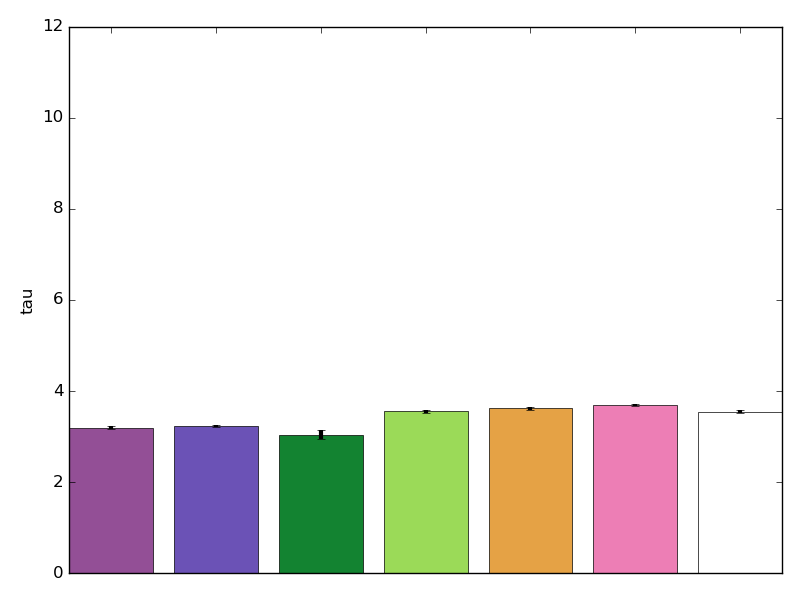
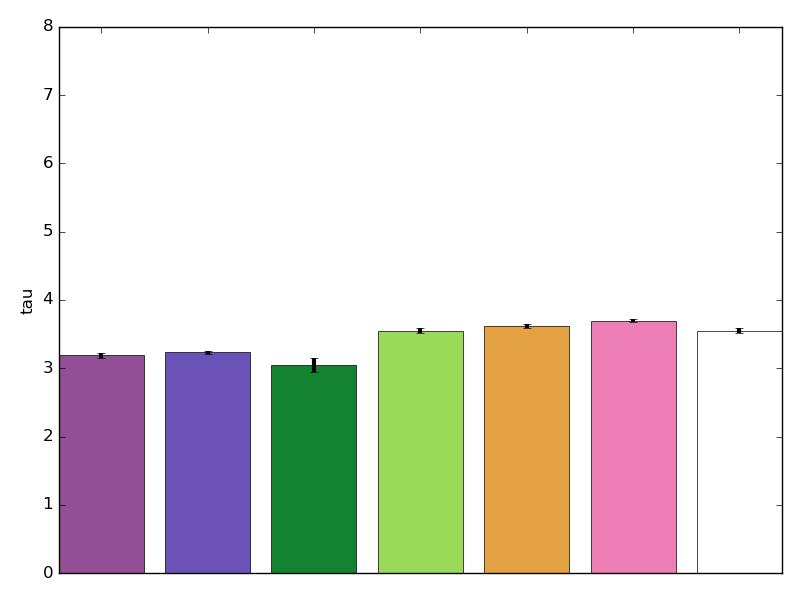
tau by net boxplot with reducedaxis limits

Changed region(s): [[0.0312, 0.03, 0.875, 0.96], [0.9062, 0.66, 0.9375, 0.69], [0.9062, 0.54, 0.9375, 0.57]]

diff --git a/code/dhcp_hcp_timescales.py b/code/dhcp_hcp_timescales.py
@@ -64,10 +64,10 @@ groups_list = ['dhcp_group1','dhcp_group2','hcp']
 net_dict = get_net_dict()
 
 
-run_within_analysis = False
+run_within_analysis = True
 run_tau_estimation_analysis = False
 run_brainrenders = True
-run_between_analysis = True
+run_between_analysis = False
 
 
 
@@ -157,7 +157,7 @@ if run_within_analysis:
         sns.set_context(rc = {'patch.linewidth': 0.5})
         g1 = sns.barplot(data=plot_bynet_df, x='net_name', y='tau', capsize=.2,
                 palette=custompalette, linestyle = "-", edgecolor = "black",ci=None,dodge=False)
-        plt.ylim((0,12))
+        plt.ylim((0,8))
         g1.set(xlabel=None)
         g1.set(xticklabels=[])
         g1.tick_params(bottom=False)
